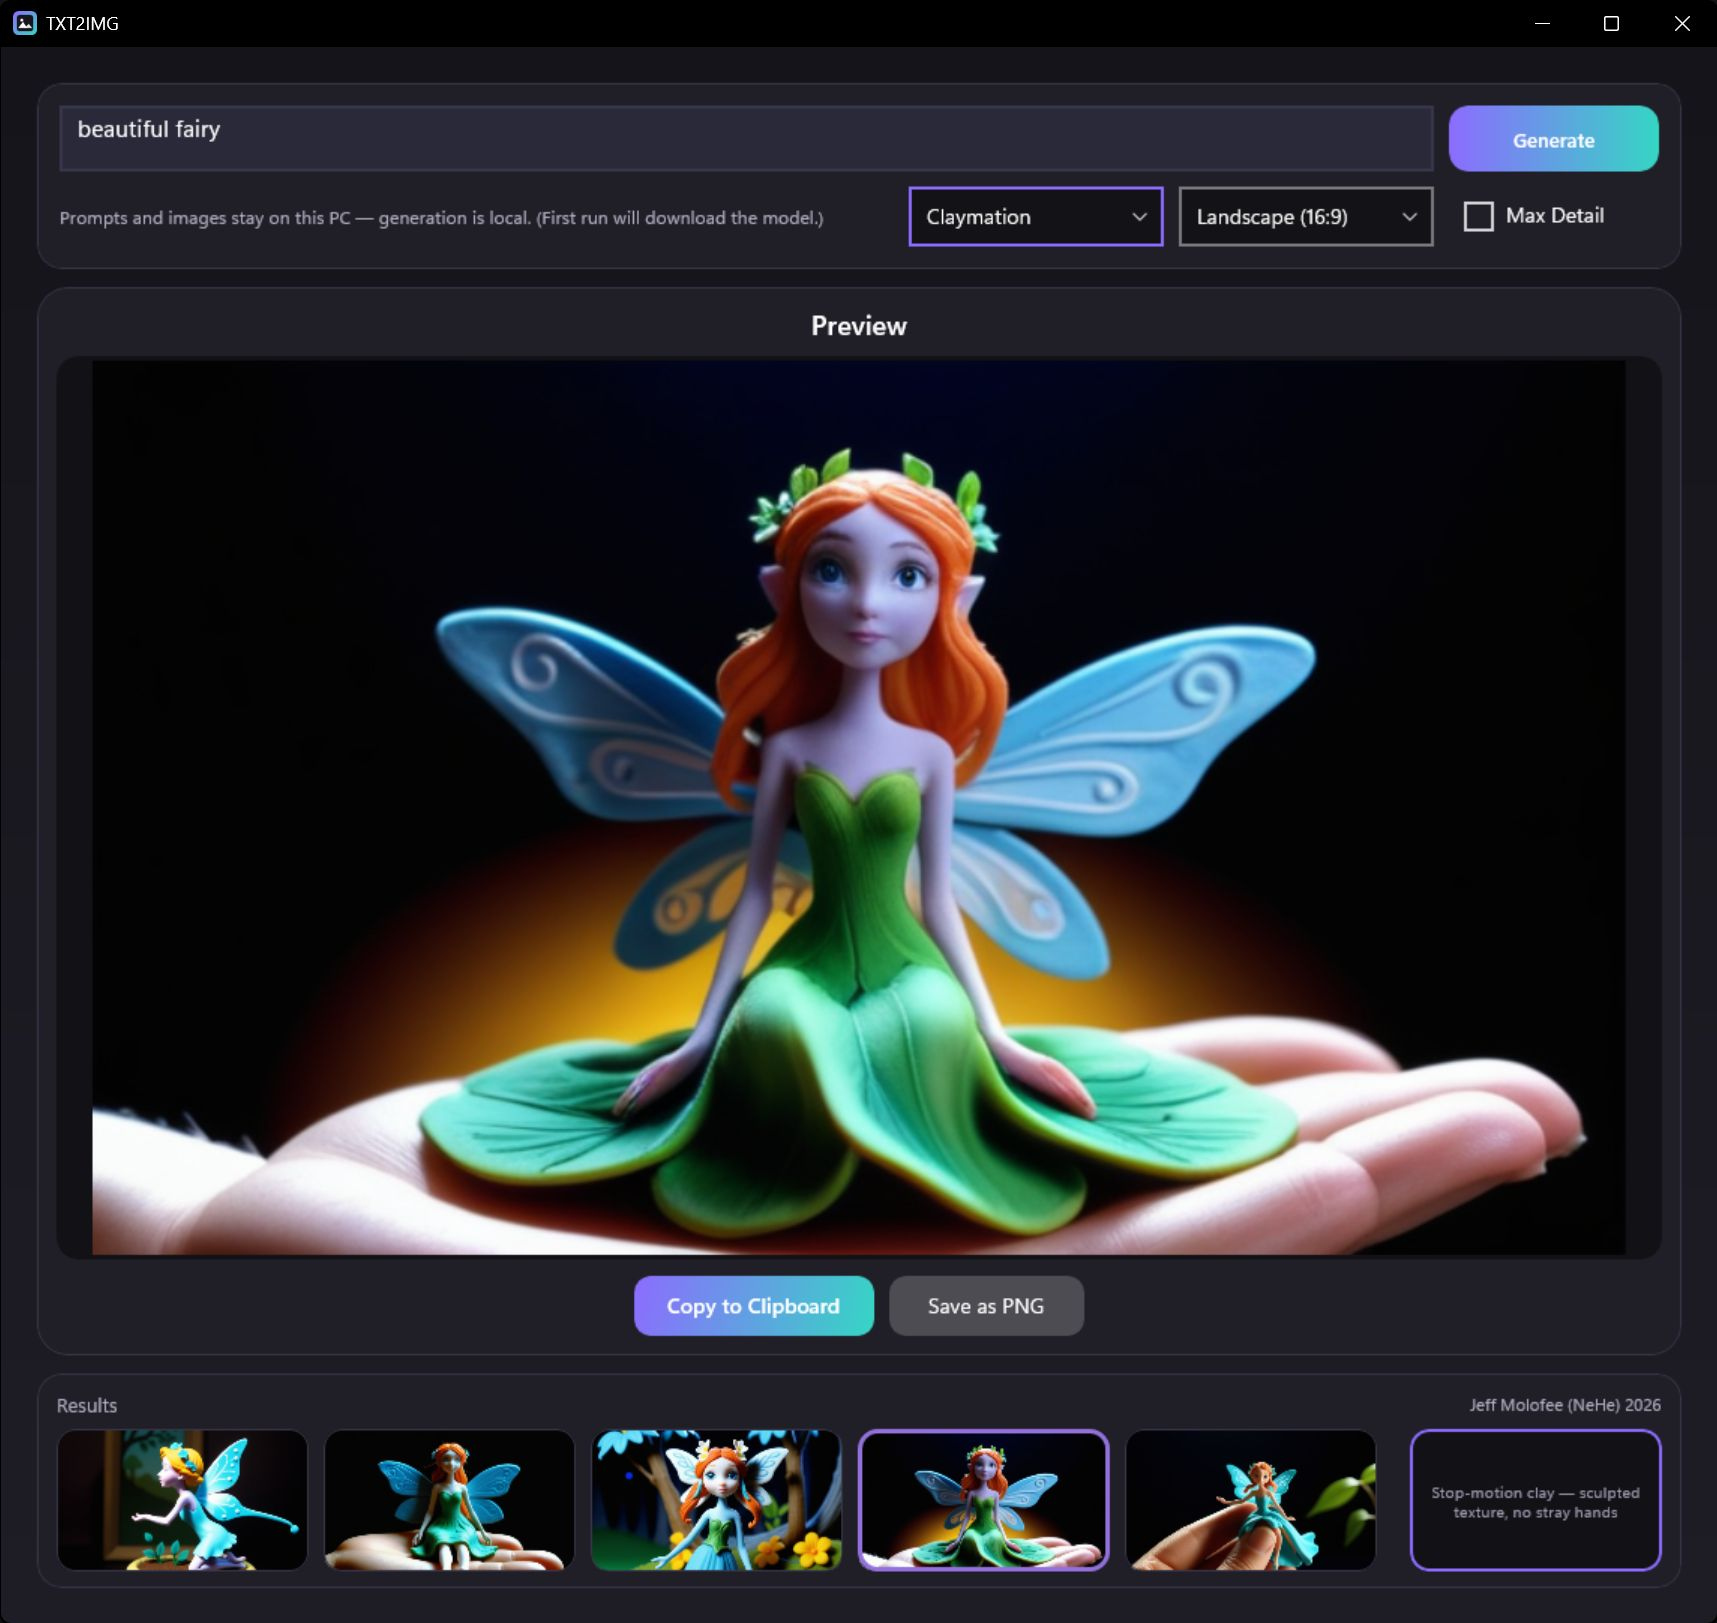
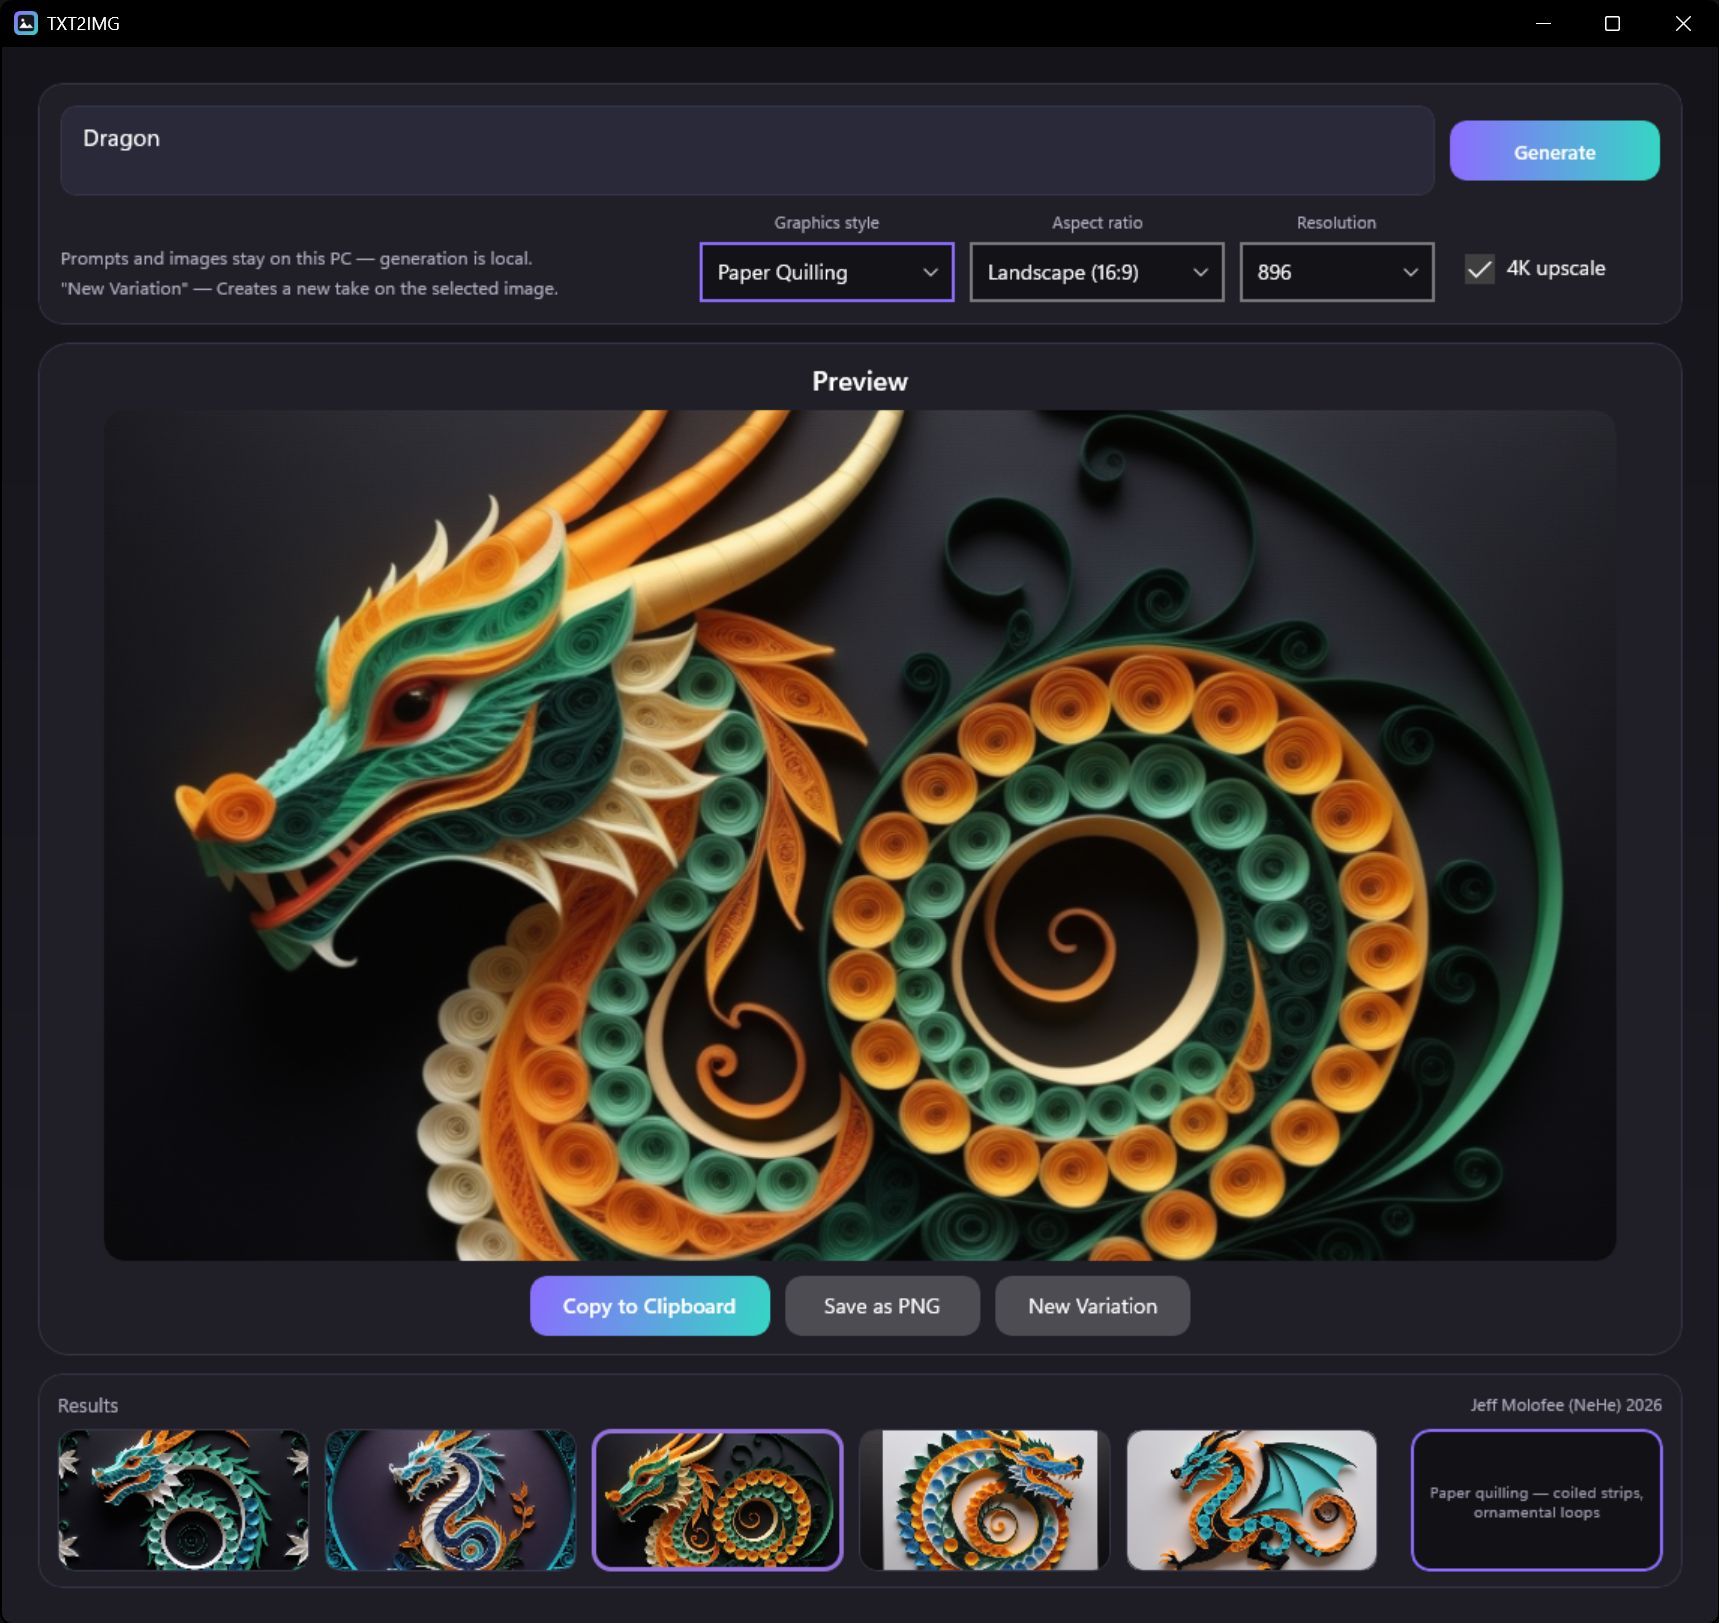
Update TXT2IMG project image and v1.1.2 feature list.
Refresh screenshot and copy for resolution, New Variation, and resumable download.

diff --git a/js/projects-data.js b/js/projects-data.js
@@ -327,14 +327,14 @@ var PROJECTS = [
 		features: [
 			{ label: "Features", items: [
 				"39 style presets — Oil Painting, Anime, Cyberpunk &amp; more",
-				"Aspect ratio picker (Square, Landscape/Portrait)",
-				"Max Detail option for extra inference steps",
+				"Resolution 768 or 896 px; optional 4K upscale",
+				"\"New Variation\" img2img on a selected result",
 				"5 variations generated per prompt"
 			]},
 			{ label: "Models", items: [
 				"Stable Diffusion XL via OnnxStack &amp; DirectML",
 				"DreamShaper XL Lightning, distilled for speed",
-				"Model auto-downloads on first use",
+				"Model auto-downloads on first use (resumable)",
 				"Copy to clipboard or save as PNG"
 			]}
 		],
